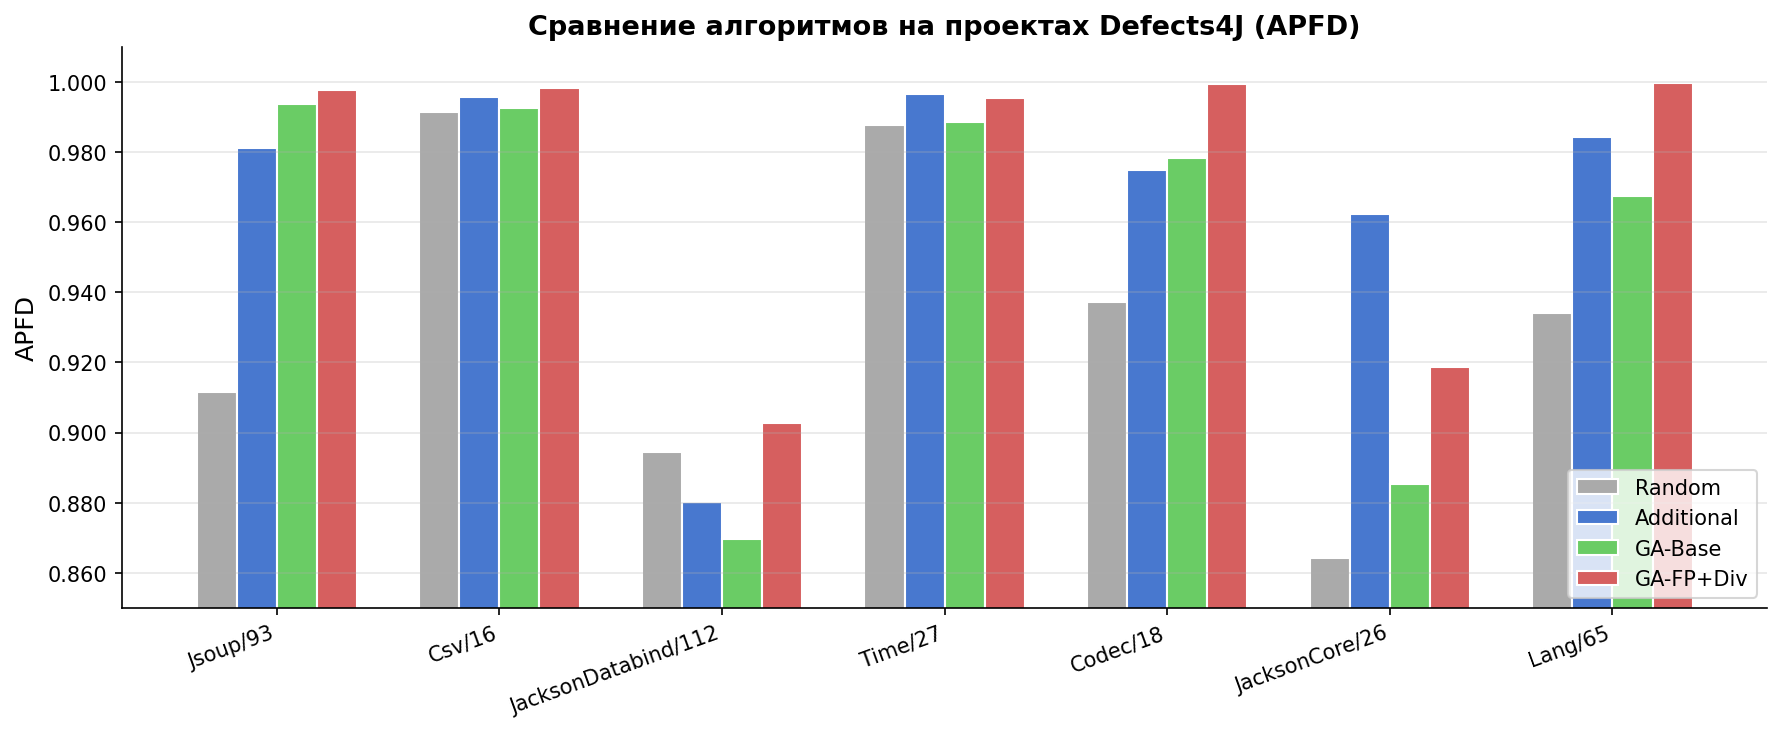
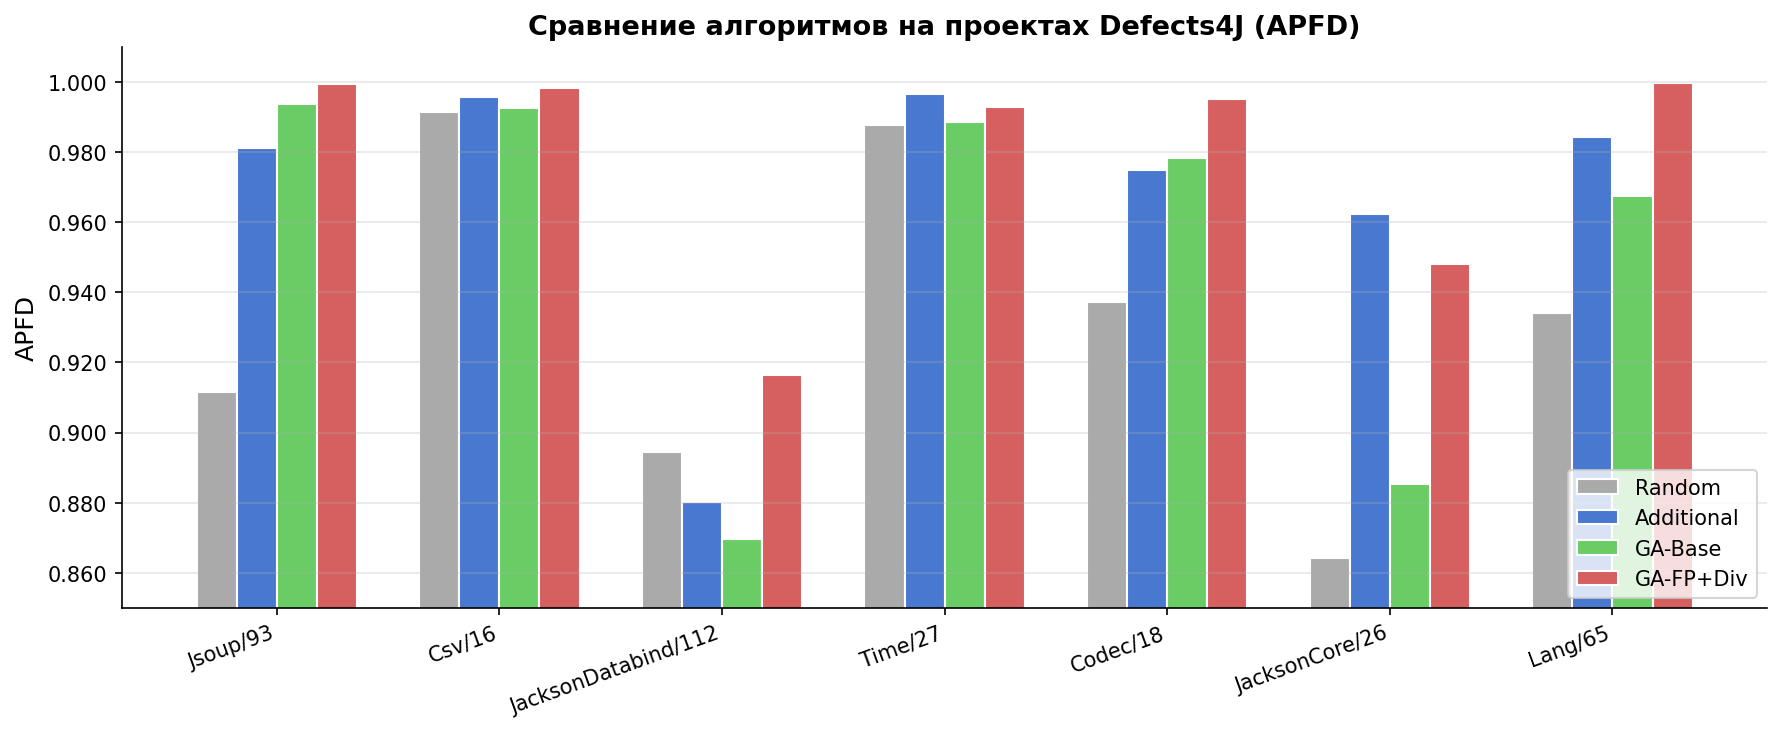
change plots

diff --git a/my_folder/chapter6.tex b/my_folder/chapter6.tex
@@ -2,9 +2,9 @@
 
 В данной главе представлены результаты сравнительного эксперимента. 
 В параграфе~\ref{ch6:sec1} описаны наборы данных и параметры эксперимента. 
-В параграфе~\ref{ch6:sec2} приведены результаты на наборе данных BigFaultMatrix. 
-В параграфе~\ref{ch6:sec3} приведены результаты на проектах Defects4J. 
-В параграфе~\ref{ch6:sec4} выполнен анализ результатов.
+В параграфе~\ref{ch6:sec3} приведены результаты на наборе данных BigFaultMatrix. 
+В параграфе~\ref{ch6:sec4} приведены результаты на проектах Defects4J. 
+В параграфе~\ref{ch6:sec5} выполнен анализ результатов.
 
 \section{Наборы данных и параметры эксперимента} \label{ch6:sec1}
 
@@ -59,7 +59,25 @@ Lang/65             & 1609 & 351  \\
 \lfloor\log_2(n)\rfloor \cdot 10)$$. 
 Эксперименты проводились на фиксированном зерне генератора случайных чисел для воспроизводимости результатов.
 
-\section{Результаты на BigFaultMatrix} \label{ch6:sec2}
+\section{Анализ чувствительности весов} \label{ch6:sec2}
+
+Для обоснования выбора весов фитнесс-функции проведён анализ 
+чувствительности: перебраны все комбинации $w_c$, $w_r$, $w_d$ 
+с шагом $0{,}2$ при условии $w_c + w_r + w_d = 1$. Для каждой 
+конфигурации вычислялся средний APFD по всем 7 проектам Defects4J.
+
+Результаты показали что алгоритм устойчив к выбору весов: 
+конфигурации с $w_r \geq 0{,}2$ дают средний APFD в диапазоне 
+$[0{,}96;\ 0{,}98]$. Конфигурации без компоненты вероятности 
+дефектов ($w_r = 0$) значительно уступают --- средний APFD 
+составляет $0{,}929$, что подтверждает вклад CIA-данных в 
+качество приоритизации.
+
+Оптимальная конфигурация $w_c = 0{,}2$, $w_r = 0{,}6$, 
+$w_d = 0{,}2$ обеспечивает средний APFD = $0{,}9785$ и принята 
+в настоящей работе как основная.
+
+\section{Результаты на BigFaultMatrix} \label{ch6:sec3}
 Результаты эксперимента на четырёх вариациях BigFaultMatrix 
 приведены в таблице~\ref{tab:bfm} и на рисунке~\ref{fig:bfm}.
 
@@ -90,10 +108,11 @@ Flip 30\% & 0{,}9977 & \textbf{0{,}9989} & 0{,}9967 & 0{,}9987 \\
 дефектов, что делает жадную стратегию близкой к оптимальной. Генетические алгоритмы уступают Additional,
 поскольку сигнал вероятности дефектов в данном формате слаб.
 
-\section{Результаты на Defects4J} \label{ch6:sec3}
+\section{Результаты на Defects4J} \label{ch6:sec4}
 
 Результаты эксперимента на проектах Defects4J приведены в 
 таблице~\ref{tab:d4j} и на рисунке~\ref{fig:d4j}.
+
 
 \begin{table}[h]
 \caption{Результаты на проектах Defects4J (APFD)}
@@ -102,12 +121,12 @@ Flip 30\% & 0{,}9977 & \textbf{0{,}9989} & 0{,}9967 & 0{,}9987 \\
 \hline
 Проект & Random & Additional & GA-Base & GA-FP+Div \\
 \hline
-Jsoup/93            & 0{,}9115 & 0{,}9811 & 0{,}9936 & \textbf{0{,}9978} \\
+Jsoup/93            & 0{,}9115 & 0{,}9811 & 0{,}9936 & \textbf{0{,}9993} \\
 Csv/16              & 0{,}9915 & 0{,}9958 & 0{,}9925 & \textbf{0{,}9982} \\
-JacksonDatabind/112 & 0{,}8945 & 0{,}8803 & 0{,}8697 & \textbf{0{,}9028} \\
-Time/27             & 0{,}9876 & \textbf{0{,}9965} & 0{,}9885 & 0{,}9955 \\
-Codec/18            & 0{,}9373 & 0{,}9749 & 0{,}9782 & \textbf{0{,}9994} \\
-JacksonCore/26      & 0{,}8643 & \textbf{0{,}9623} & 0{,}8854 & 0{,}9188 \\
+JacksonDatabind/112 & 0{,}8945 & 0{,}8803 & 0{,}8697 & \textbf{0{,}9163} \\
+Time/27             & 0{,}9876 & \textbf{0{,}9965} & 0{,}9885 & 0{,}9928 \\
+Codec/18            & 0{,}9373 & 0{,}9749 & 0{,}9782 & \textbf{0{,}9950} \\
+JacksonCore/26      & 0{,}8643 & \textbf{0{,}9623} & 0{,}8854 & 0{,}9480 \\
 Lang/65             & 0{,}9342 & 0{,}9842 & 0{,}9674 & \textbf{0{,}9997} \\
 \hline
 \end{tabularx}
@@ -121,7 +140,7 @@ Lang/65             & 0{,}9342 & 0{,}9842 & 0{,}9674 & \textbf{0{,}9997} \\
 \end{figure}
 
 \newpage
-\section{Анализ результатов} \label{ch6:sec4}
+\section{Анализ результатов} \label{ch6:sec5}
 
 На проектах Defects4J алгоритм GA-FP+Div показывает наилучшие результаты на 5 из 7 проектов. 
 На проектах Time/27 и JacksonCore/26 лучшим оказывается Additional. 